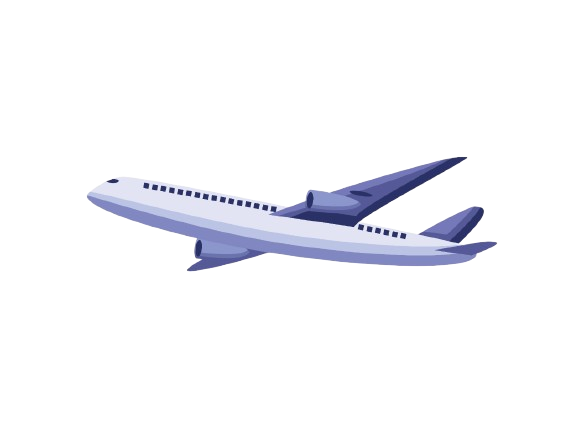
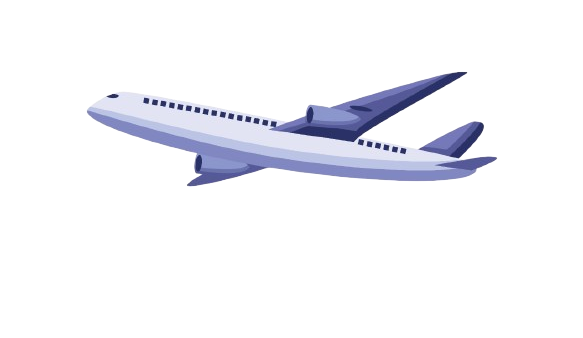
front index

Changed region(s): [[0.1544, 0.2071, 0.8645, 0.6509]]

diff --git a/AircraftSandbox/AircraftSandbox/AircraftSandbox/css/style.css b/AircraftSandbox/AircraftSandbox/AircraftSandbox/css/style.css
@@ -540,6 +540,7 @@ html, body {
     height: auto;
     position: relative;
     left: 50%;
+    margin-top: -55px;
     transform: translateX(-50%);
     z-index: 1;
 }
@@ -549,7 +550,7 @@ html, body {
     font-size: clamp(10px, calc(10px + 115 * (100vw / 1200)), 165px);
     position: absolute;
     left: 50%;
-    top: 50%;
+    top: 45%;
     transform: translate(-50%, -50%);
 }
 
@@ -565,7 +566,7 @@ html, body {
     position: absolute;
     font-family: "Londrina Solid";
     font-size: clamp(22px, calc(22px + 0.0598 * (100vw - 320px)), 91px);
-    left: 51%;
+    left:50%;
     top: 71%;
     transform: translate(-50%, -50%);
 }
